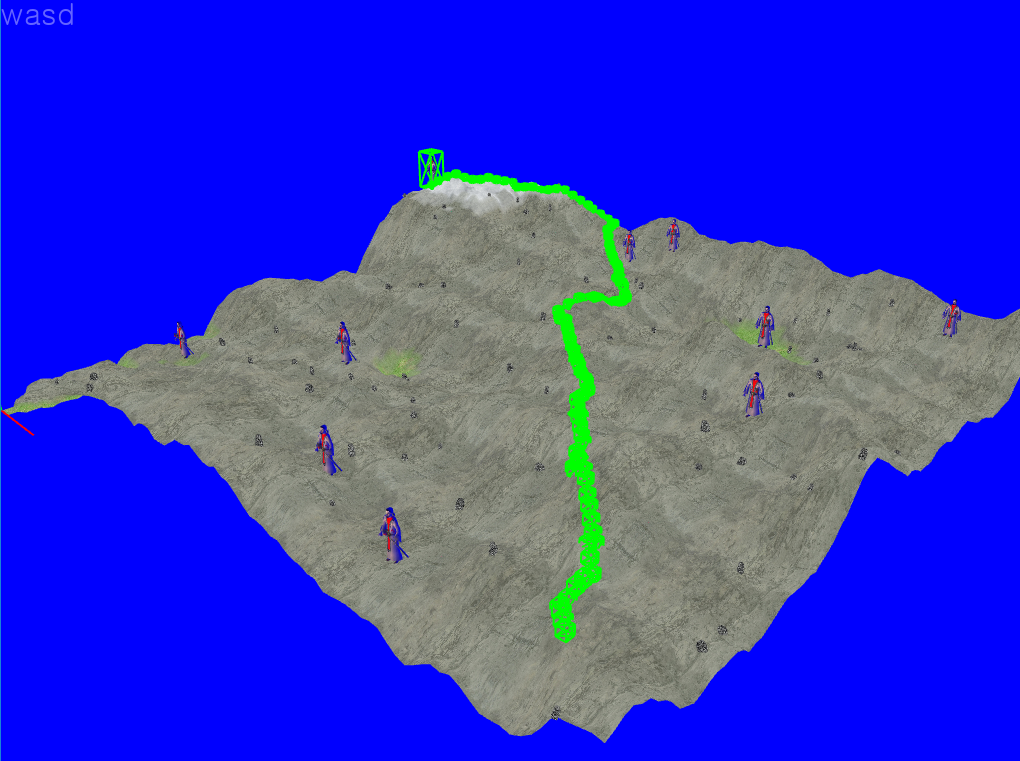
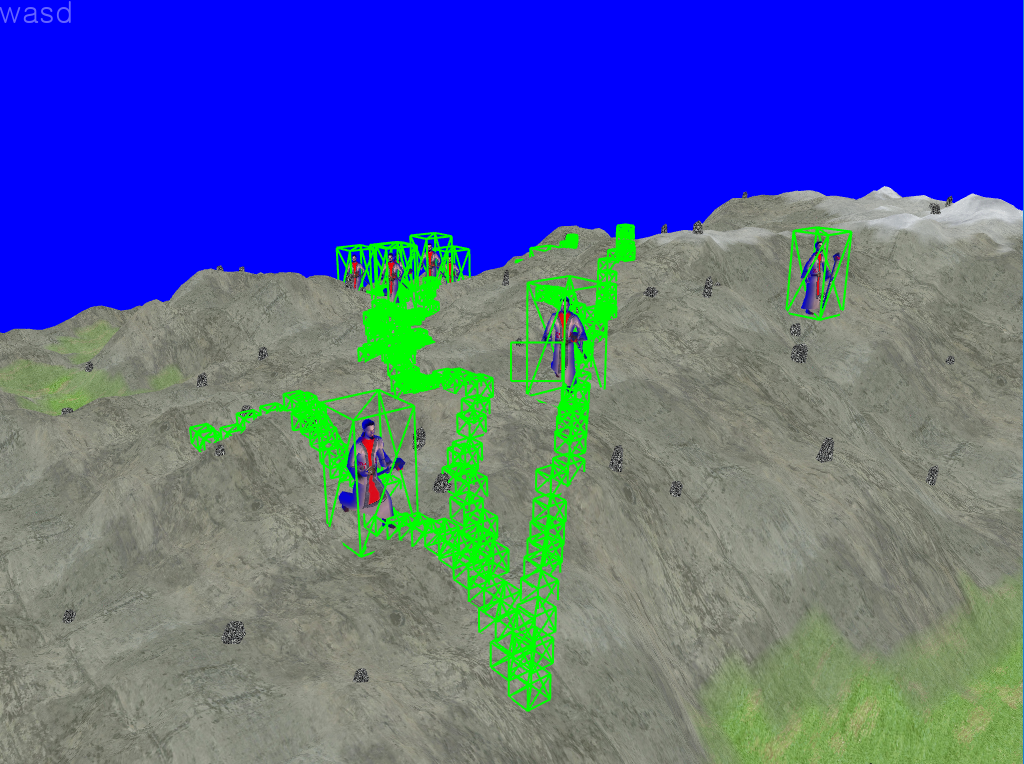
update
이동 처리 완료

diff --git a/RTSProject/RTSProject/Unit.cpp b/RTSProject/RTSProject/Unit.cpp
@@ -3,7 +3,7 @@
 
 Unit::Unit()
 {
-
+	speed = 8.0f;
 }
 
 Unit::~Unit()
@@ -16,9 +16,64 @@ void Unit::MakeBoxObject()
 	mBoxObject = std::make_shared<BoxObject>(mSkinnedMesh->GetMinPos(), mSkinnedMesh->GetMaxPos());
 }
 
+glm::vec3 Unit::GetDirection(glm::vec2 p1, glm::vec2 p2)
+{
+	float dx = p2.x - p1.x, dy = p2.y - p1.y;
+
+	if (dx < 0 && dy > 0)	return glm::vec3(glm::pi<float>() / 4, 0.0f, 0.0f);
+	if (dx == 0 && dy > 0)	return glm::vec3(0.0f, 0.0f, 0.0f);
+	if (dx > 0 && dy > 0)	return glm::vec3(-glm::pi<float>() / 4, 0.0f, 0.0f);
+	if (dx > 0 && dy == 0)	return glm::vec3(-glm::pi<float>() / 2, 0.0f, 0.0f);
+	if (dx > 0 && dy < 0)	return glm::vec3((-glm::pi<float>() / 4) * 3, 0.0f, 0.0f);
+	if (dx == 0 && dy < 0)	return glm::vec3(glm::pi<float>(), 0.0f, 0.0f);
+	if (dx < 0 && dy < 0)	return glm::vec3((glm::pi<float>() / 4) * 3, 0.0f, 0.0f);
+	if (dx < 0 && dy == 0)	return glm::vec3(glm::pi<float>() / 2, 0.0f, 0.0f);
+
+	return mRot;
+}
+
 void Unit::Update(float deltaTime)
 {
 	mSkinnedMesh->Update(deltaTime);
+	if (!mPath.empty())
+	{
+		SetAnimation(2);
+		float len = deltaTime * speed;
+		glm::vec2 prev = glm::vec2(mPos.x, -mPos.z);
+		for (int i = mPosIndex; i < mPath.size(); ++i)
+		{
+			float d = glm::distance(prev, glm::vec2(mPath[i]));
+			len -= d;
+			if (len < 0.0f)
+			{
+				glm::vec2 pos = prev + (1 - (-len / d)) *  (glm::vec2(mPath[i]) - prev);
+				
+				mRot = GetDirection(glm::vec2(mPath[i]), prev);
+				SetRotation(mRot);
+				mPos.x = pos.x;
+				mPos.z = -pos.y;
+
+				SetPosition(mPos);
+				break;
+			}
+			
+			++mPosIndex;
+			prev = mPath[i];
+		}
+
+		if (len > 0)
+		{
+			SetAnimation(1);
+			mPos.x = mPath[mPath.size() - 1].x;
+			mPos.z = -mPath[mPath.size() - 1].y;
+
+			SetPosition(mPos);
+		}
+	}
+	else
+	{
+		SetAnimation(1);
+	}
 }
 
 void Unit::Render(std::shared_ptr<Camera> camera)

diff --git a/RTSProject/RTSProject/Unit.h b/RTSProject/RTSProject/Unit.h
@@ -2,6 +2,7 @@
 
 #include "SkinnedMesh.h"
 #include "BoxObject.h"
+#include "Terrain.h"
 
 class Unit
 {
@@ -13,7 +14,10 @@ public:
 	void									SetPosition(glm::vec3 p) { mPos = p;  mSkinnedMesh->SetPosition(p); mBoxObject->SetPosition(p); }
 	void									SetRotation(glm::vec3 r) { mRot = r;  mSkinnedMesh->SetRotation(r); }
 	void									SetScale(glm::vec3 s) { mSca = s; mSkinnedMesh->SetScale(s); }
-	
+
+	glm::vec3								GetDirection(glm::vec2 p1, glm::vec2 p2);
+	glm::vec3 								GetPosition() { return mPos; }
+	void									SetHeight(std::shared_ptr<Terrain> terrain) { mPos.y = terrain->GetHeight(mPos.x, -mPos.z); SetPosition(mPos); }
 	void									Update(float deltaTime);
 	void									Render(std::shared_ptr<Camera> camera);
 
@@ -25,10 +29,20 @@ public:
 	
 	bool									isSelected() { return mIsSelect; }
 
+	void									SetPath(const std::vector<glm::ivec2>& path) { mPosIndex = 0;  mPath = path; }
+	glm::ivec2								GetNextPos() { mPosIndex += 1; return mPath[mPosIndex]; }
+
+	void									SetAnimation(int idx) { mSkinnedMesh->mAnimationIdx = idx; };
+
 	bool									mIsSelect;
 	std::shared_ptr<BoxObject>				mBoxObject;
 
+	int										mPosIndex;
+
 	glm::vec3								mPos, mRot, mSca;
-	
+	std::vector<glm::ivec2>					mPath;
+
+	float									speed;
+
 	std::shared_ptr<SkinnedMesh>			mSkinnedMesh;
 };

diff --git a/RTSProject/RTSProject/SkinnedMesh.h b/RTSProject/RTSProject/SkinnedMesh.h
@@ -73,7 +73,7 @@ public:
 	void									SetView(glm::mat4 v) { view = v; }
 
 	// read Bone
-	void									ReadNodeHeirarchy(float AnimationTime, const aiNode* pNode, const glm::mat4& ParentTransform);
+	void									ReadNodeHeirarchy(const aiAnimation* pAnimation, float AnimationTime, const aiNode* pNode, const glm::mat4& ParentTransform);
 	void									BoneTransform();
 
 
@@ -103,6 +103,8 @@ public:
 	glm::mat4								perspect;
 	glm::mat4								view;
 	float									mAnimTime;
+
+	int										mAnimationIdx;
 
 	double									mX;
 	double									mY;

diff --git a/RTSProject/RTSProject/GameStage.cpp b/RTSProject/RTSProject/GameStage.cpp
@@ -52,6 +52,7 @@ void GameStage::Update(float deltaTime)
 	for (int i = 0; i < 10; ++i)
 	{
 		mUnits[i]->Update(deltaTime);
+		mUnits[i]->SetHeight(terrain);
 	}
 }
 
@@ -108,6 +109,7 @@ void GameStage::MouseButton(int button, int action)
 				if (mUnits[i]->isSelected())
 				{
 					vector<glm::ivec2> ret = terrain->GetPath(glm::ivec2(mUnits[i]->mPos.x, -mUnits[i]->mPos.z), pos);
+					mUnits[i]->SetPath(ret);
 
 					for (int i = 0; i < ret.size(); ++i)
 					{
